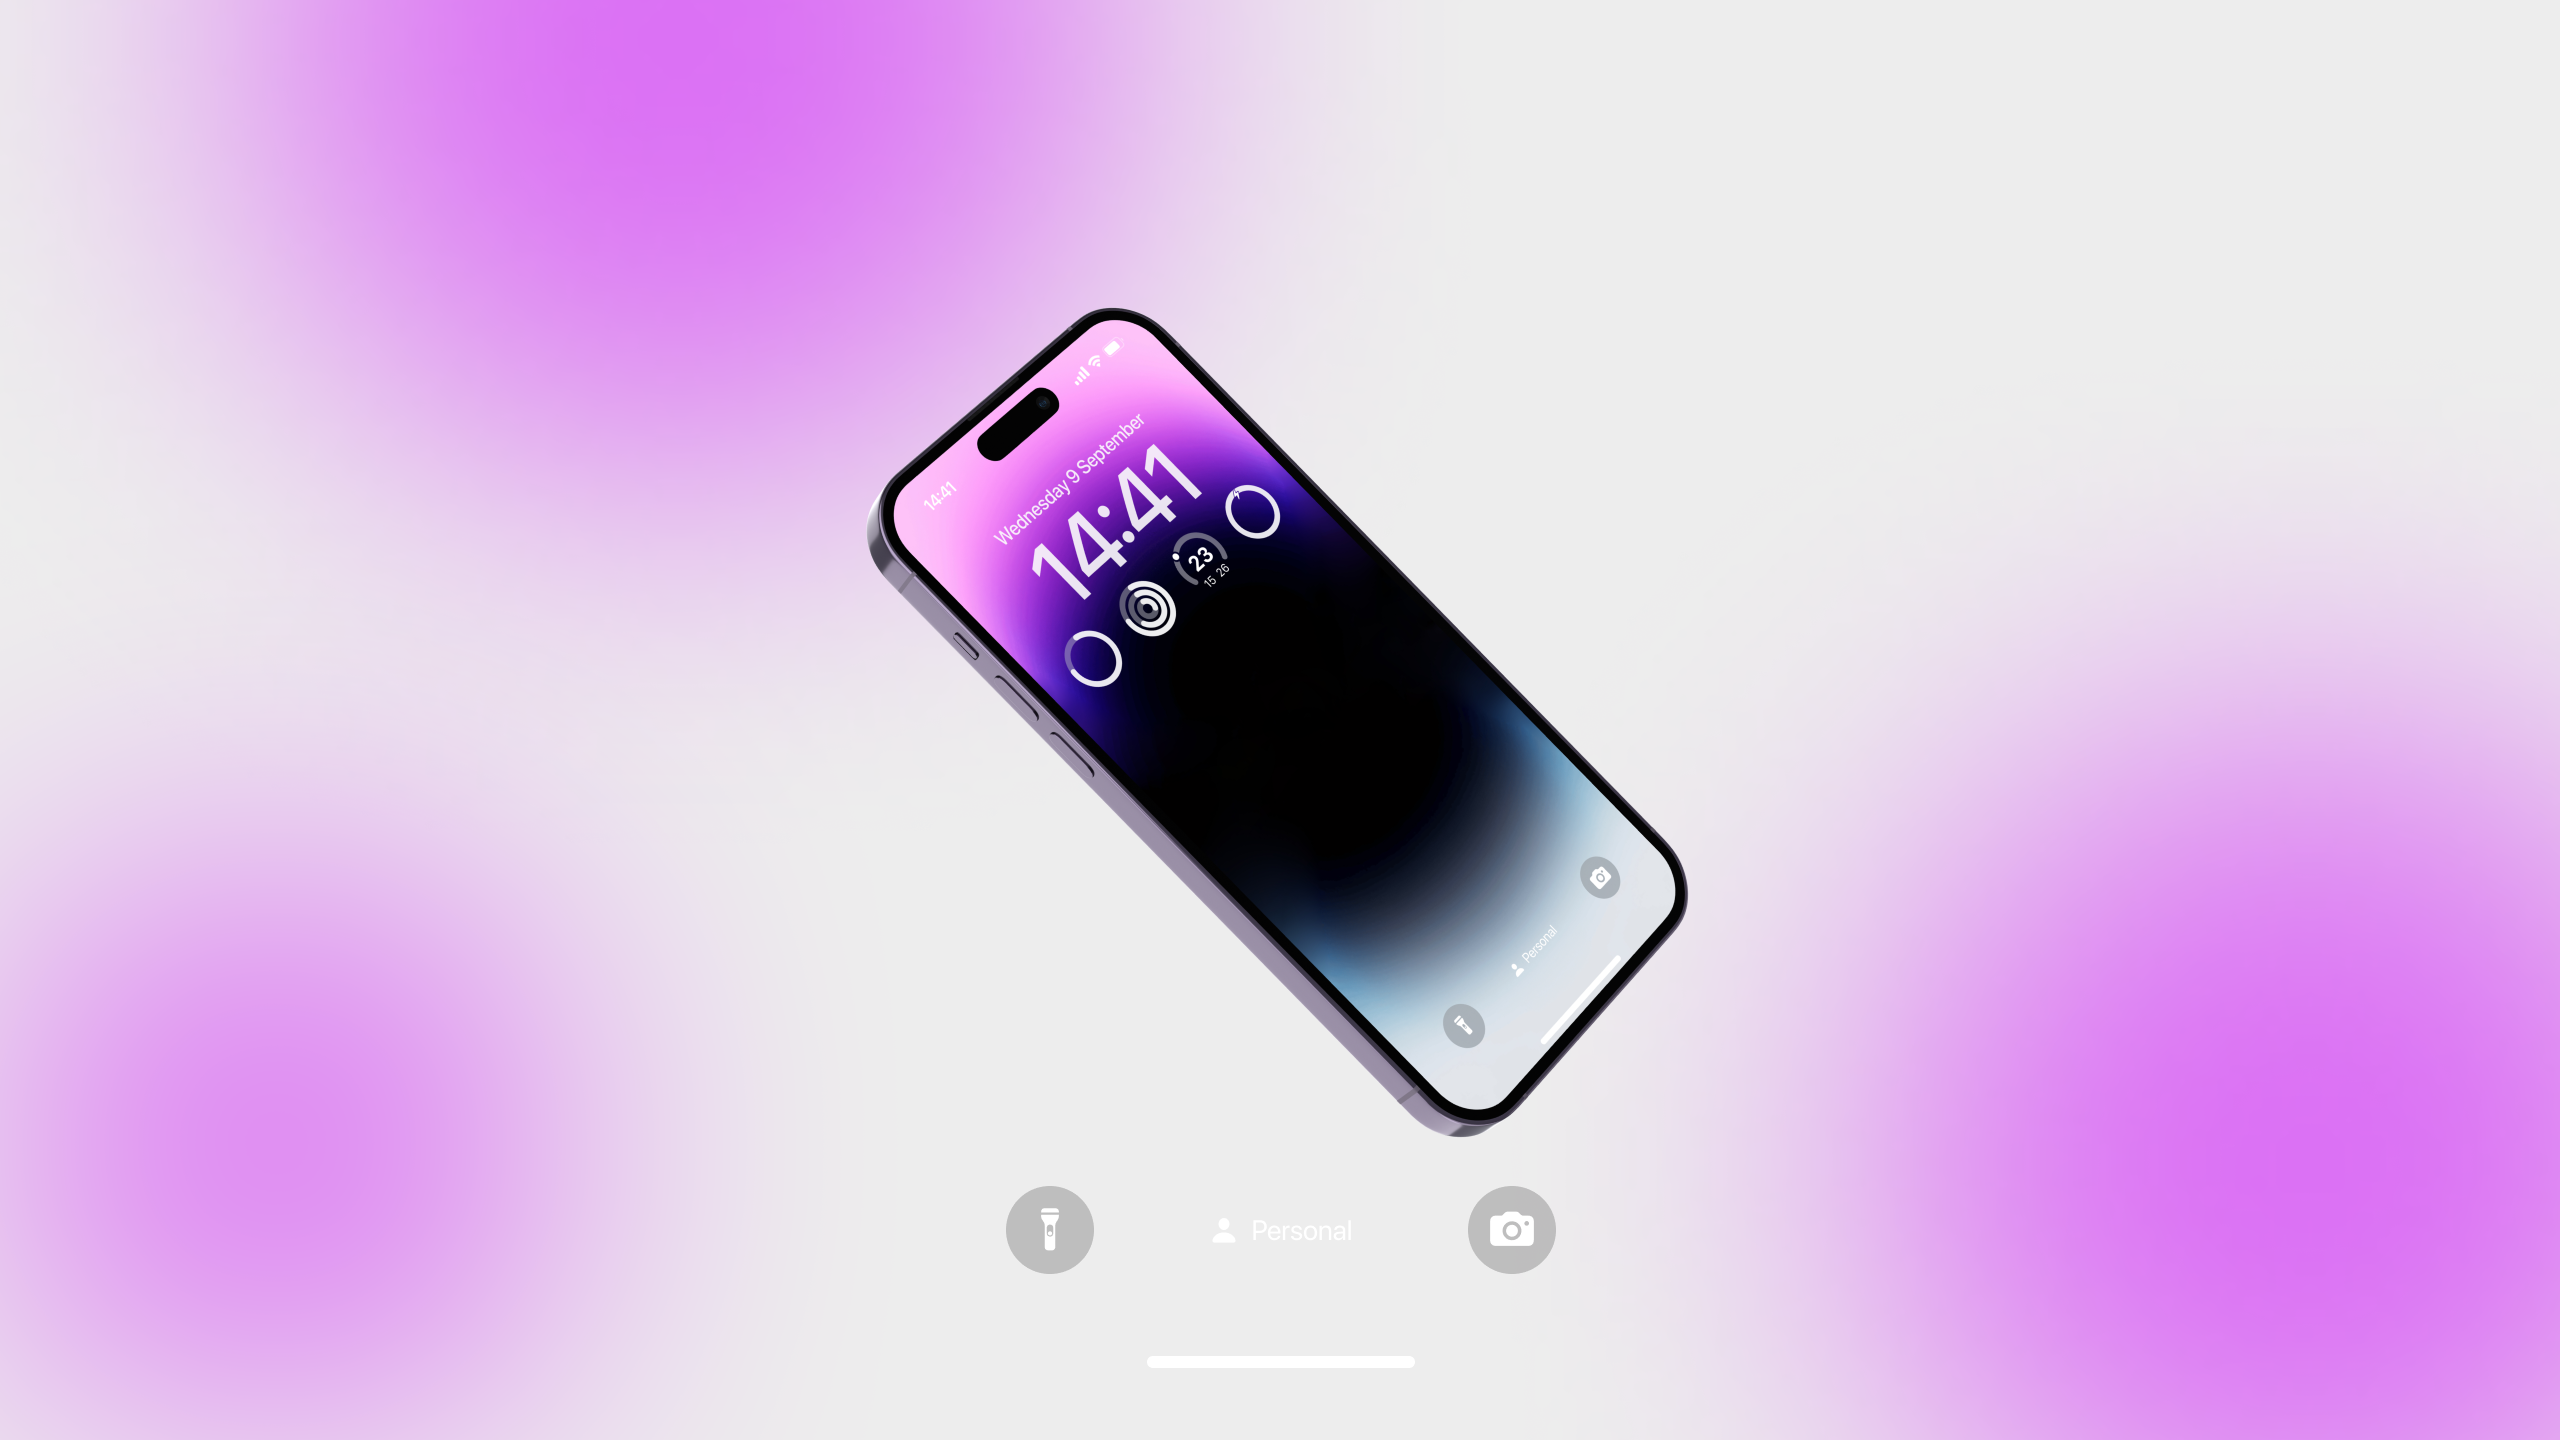
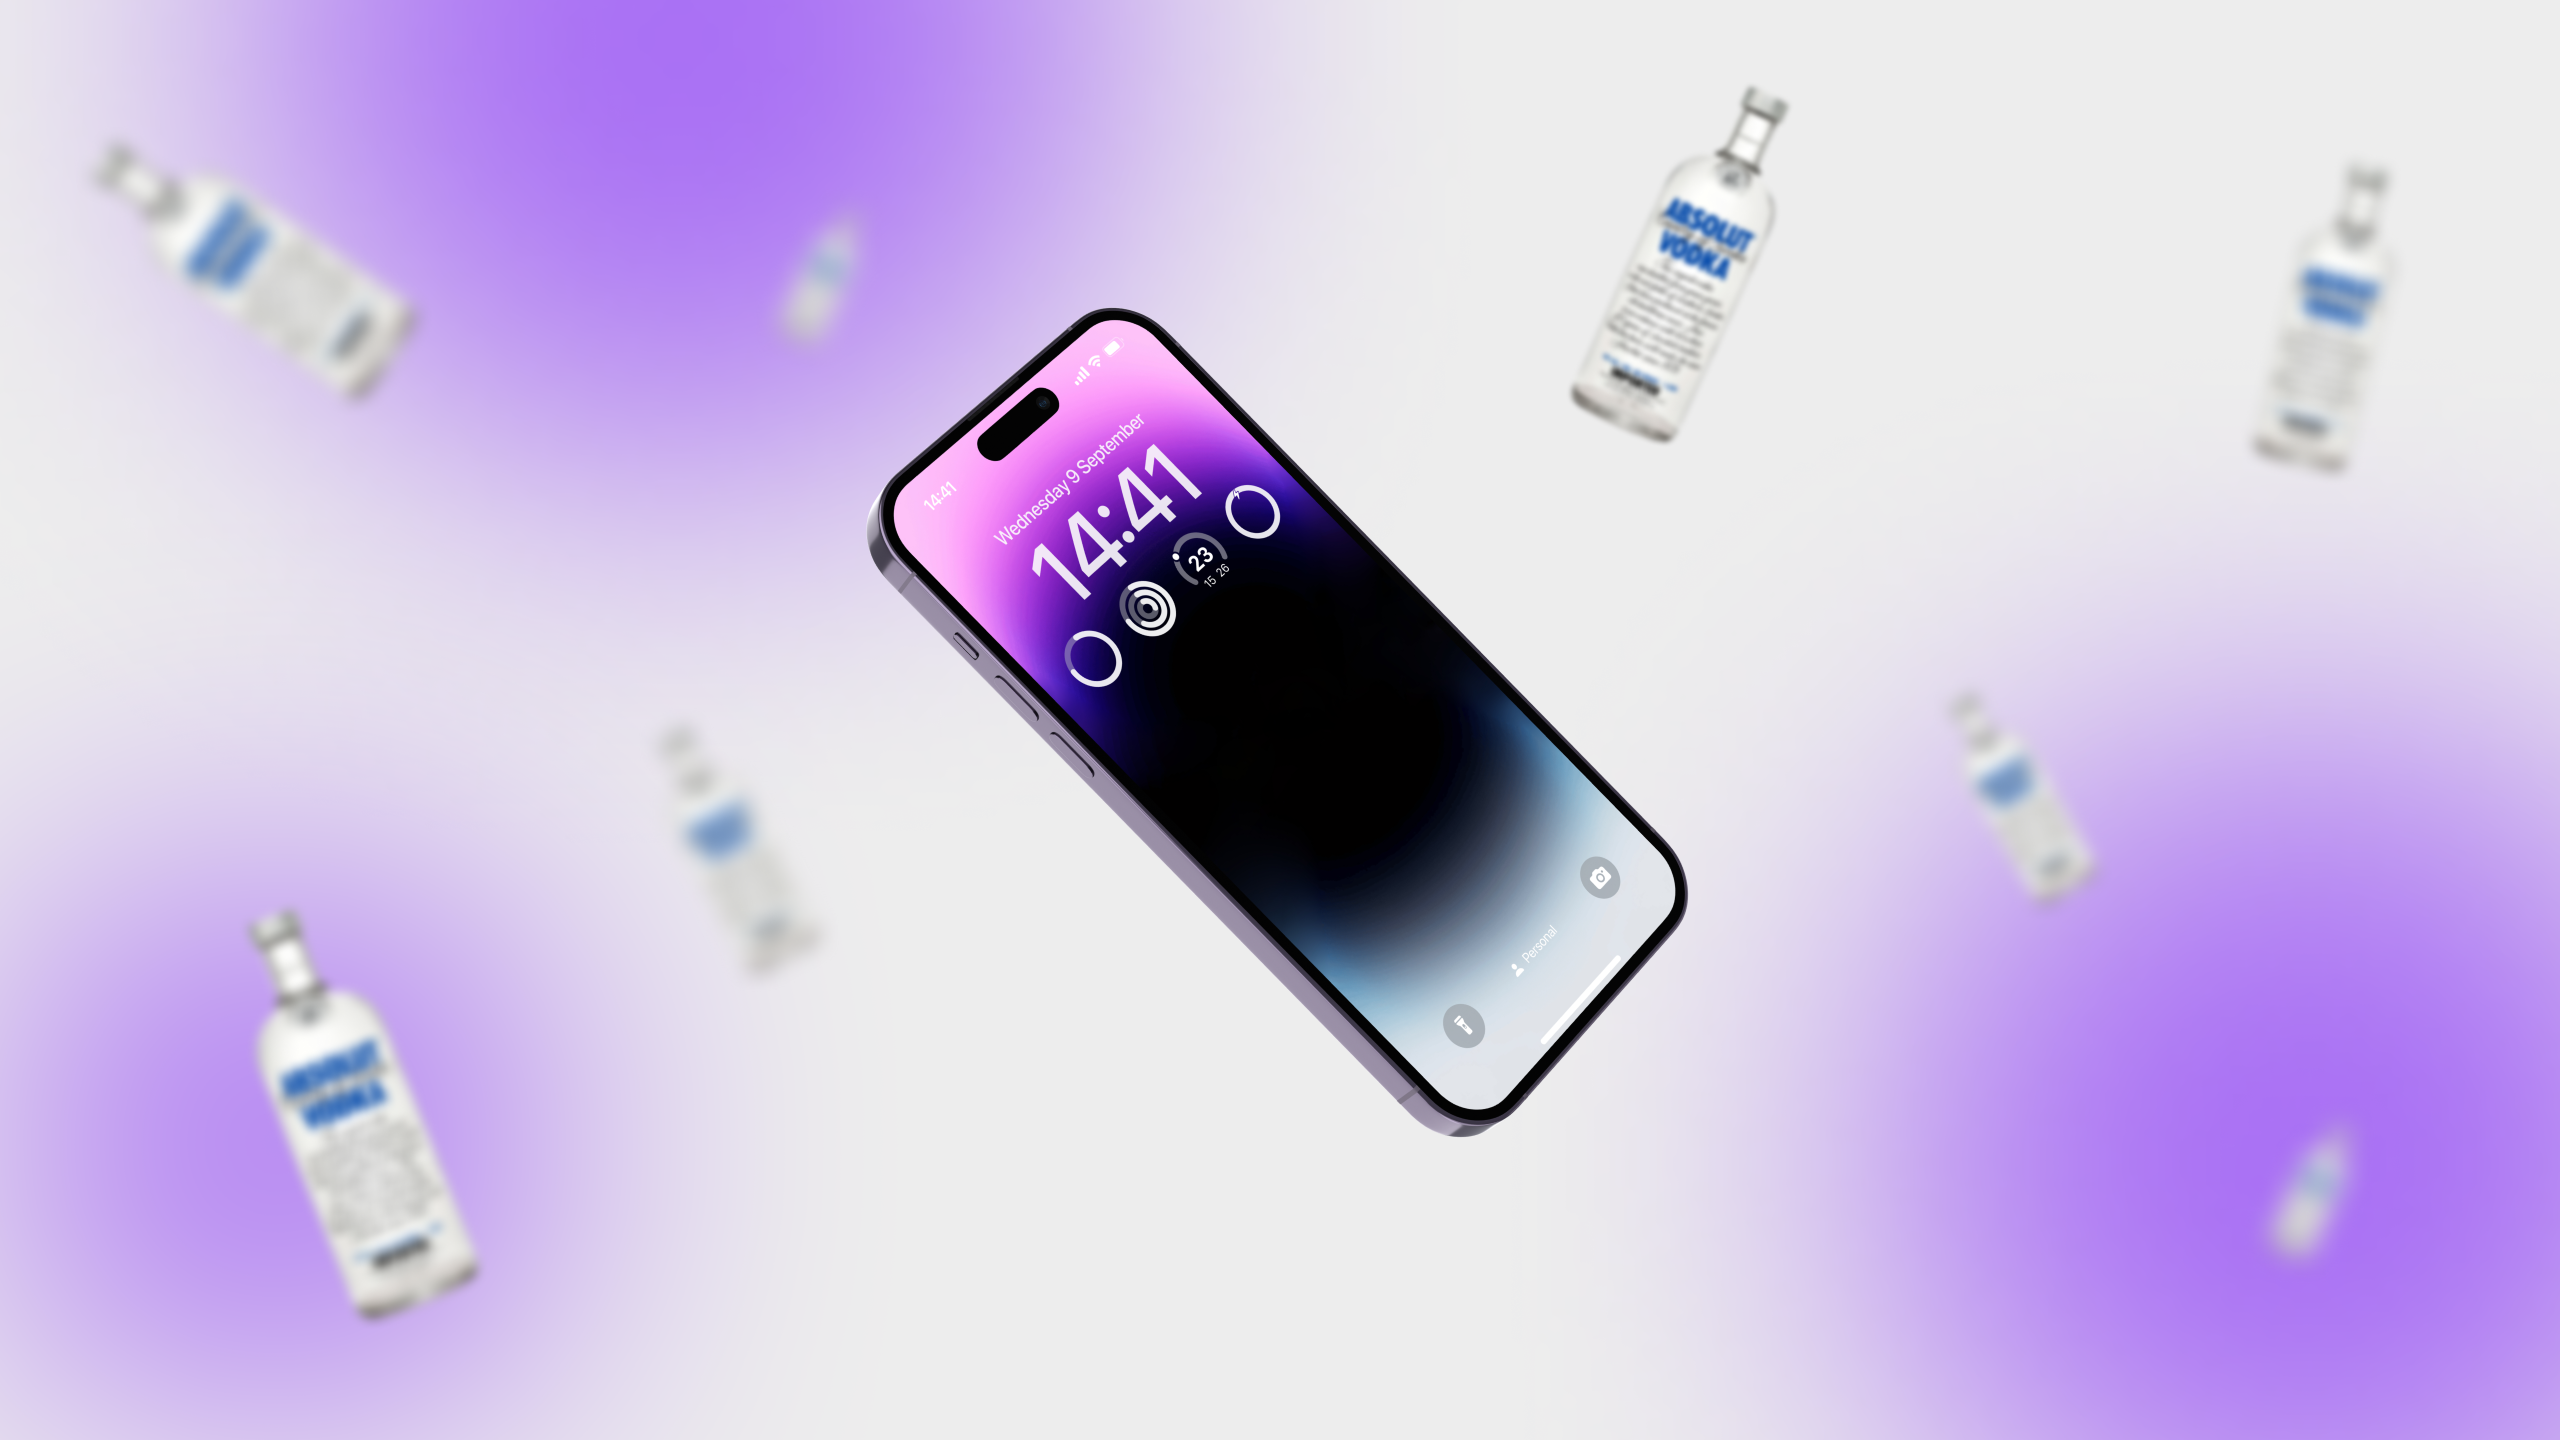
change design

diff --git a/src/App.jsx b/src/App.jsx
@@ -1,31 +1,75 @@
-import { useState } from 'react'
+import { useState, useEffect } from 'react'
 import bgDesktop from './assets/bg_desktop.png'
 import bgMobile from './assets/bg_mobile.png'
+import icon1 from './assets/1.png'
+import icon2 from './assets/2.png'
+import icon3 from './assets/3.png'
+import music from './assets/baobab.mp3'
+import bottom from './assets/Bottom.png'
+
 
 function App() {
   const [selectedEvent, setSelectedEvent] = useState(null)
 
+
+  useEffect(() => {
+    const audio = new Audio(music)
+    audio.loop = true
+    audio.volume = 1.0
+
+
+    audio.muted = true
+    audio.play().then(() => {
+      audio.muted = false
+      audio.play()
+      console.log("🎵 Автовоспроизведение сработало")
+    }).catch(() => {
+      console.log("⛔ Автовоспроизведение заблокировано — ждём клика")
+    })
+
+
+    const unlock = () => {
+      audio.muted = false
+      audio.play().catch(() => {})
+      console.log("🎵 Музыка запущена после клика")
+      window.removeEventListener("click", unlock)
+    }
+    window.addEventListener("click", unlock)
+
+    // 3) Extra safari hack — retry after small delay
+    setTimeout(() => {
+      audio.play().catch(() => {})
+    }, 1200)
+
+    return () => {
+      window.removeEventListener("click", unlock)
+      audio.pause()
+    }
+  }, [])
+
+
+
   const events = [
     {
       time: "16:00",
-      title: "Power Point party",
+      title: "Power Point Party",
       description: "Каждый придумывает презентацию на любую тему и рассказывает её.",
-      modalText: "В эту часть программы каждый участник создаёт забавную или креативную презентацию и показывает её всем. Будет много смеха, неожиданных идей и весёлой импровизации!",
-      emoji: "📊"
+      modalText: "Будет пиво и презентации. Можно выбрать любую тему, например, сколько раз Гошан какал в этом году.",
+      icon: icon1
     },
     {
       time: "18:00",
       title: "Коктейль-вечеринка",
-      description: "Вечер с коктейлями, музыкой и весельем.",
-      modalText: "Мы соберёмся в уютной атмосфере с коктейлями, легкой музыкой и хорошим настроением. Отличный момент, чтобы пообщаться, посмеяться и сделать красивые фото.",
-      emoji: "🍹"
+      description: "Будем готовить коктейли под музыку.",
+      modalText: "Мы будем делать интересные коктейли и пить их. Паша — ответственный за плейлист.",
+      icon: icon2
     },
     {
       time: "21:00",
       title: "Идем в клуб 'Клуб'",
-      description: "Танцы до утра и незабываемая атмосфера.",
-      modalText: "Заключительная часть вечера — танцы, свет, энергия и незабываемая музыка. Настоящая атмосфера праздника до самого утра!",
-      emoji: "🎶"
+      description: "Выпьем водки и попадем в легендарное место.",
+      modalText: "Пьем водку и фигачим в клуб 'Клуб' трахаться!",
+      icon: icon3
     }
   ]
 
@@ -43,10 +87,31 @@ function App() {
         }}
       />
 
+      {/* IOS animation styles */}
+      <style>
+        {`
+          @keyframes iosFadeUp {
+            0% { opacity: 0; transform: translateY(26px) scale(0.95); filter: blur(4px); }
+            60% { opacity: 1; transform: translateY(0px) scale(1.02); filter: blur(0); }
+            100% { opacity: 1; transform: translateY(0) scale(1); }
+          }
+
+          .ios-anim {
+            animation: iosFadeUp .55s cubic-bezier(.11, .6, .1, 1);
+          }
+        `}
+      </style>
+
       <div className="relative z-10 w-full max-w-sm flex flex-col items-center gap-4">
-        <h1 className="text-2xl md:text-3xl font-bold mb-4 pb-16 md:mb-8 text-gray-800 text-center">
-          Вам пришло приглашение!
-        </h1>
+
+        <div className="flex flex-col items-center mb-4 pb-16 md:mb-8">
+          <div className="text-8xl font-semibold text-black/70 tracking-tight">
+            15:00
+          </div>
+          <div className="text-black/60 text-lg mt-1">
+            Суббота, 22 ноября
+          </div>
+        </div>
 
         <div className="flex flex-col gap-4 w-full">
           {events.map((event, index) => (
@@ -54,6 +119,7 @@ function App() {
               key={index}
               onClick={() => setSelectedEvent(event)}
               className="
+                ios-anim
                 cursor-pointer
                 bg-white/50 backdrop-blur-xl
                 rounded-3xl shadow-lg border border-white/40
@@ -61,7 +127,7 @@ function App() {
                 active:scale-[0.98] transition
               "
             >
-              <div className="text-3xl">{event.emoji}</div>
+              <img src={event.icon} alt="" className="w-10 h-10 rounded-xl object-contain" />
 
               <div className="flex flex-col flex-1">
                 <div className="flex justify-between items-center">
@@ -75,6 +141,7 @@ function App() {
         </div>
       </div>
 
+
       {selectedEvent && (
         <div className="fixed inset-0 z-50 flex items-center justify-center">
           <div
@@ -84,12 +151,12 @@ function App() {
 
           <div
             className="
+              ios-anim
               relative z-10 w-80 bg-white/80 backdrop-blur-2xl
               rounded-3xl p-6 shadow-2xl border border-white/40
-              animate-[fadeIn_.2s_ease-out]
             "
           >
-            <div className="text-5xl mb-3 text-center">{selectedEvent.emoji}</div>
+            <img src={selectedEvent.icon} className="w-16 h-16 mx-auto mb-3 rounded-xl object-contain" />
 
             <h2 className="text-xl font-semibold text-center text-gray-900">
               {selectedEvent.title}
@@ -115,6 +182,15 @@ function App() {
           </div>
         </div>
       )}
+
+    <div className="absolute bottom-4 left-1/2 -translate-x-1/2 z-20 pointer-events-none">
+      <img
+        src={bottom}
+        className="max-w-lg opacity-90"
+        alt=""
+      />
+    </div>
+
     </div>
   )
 }
